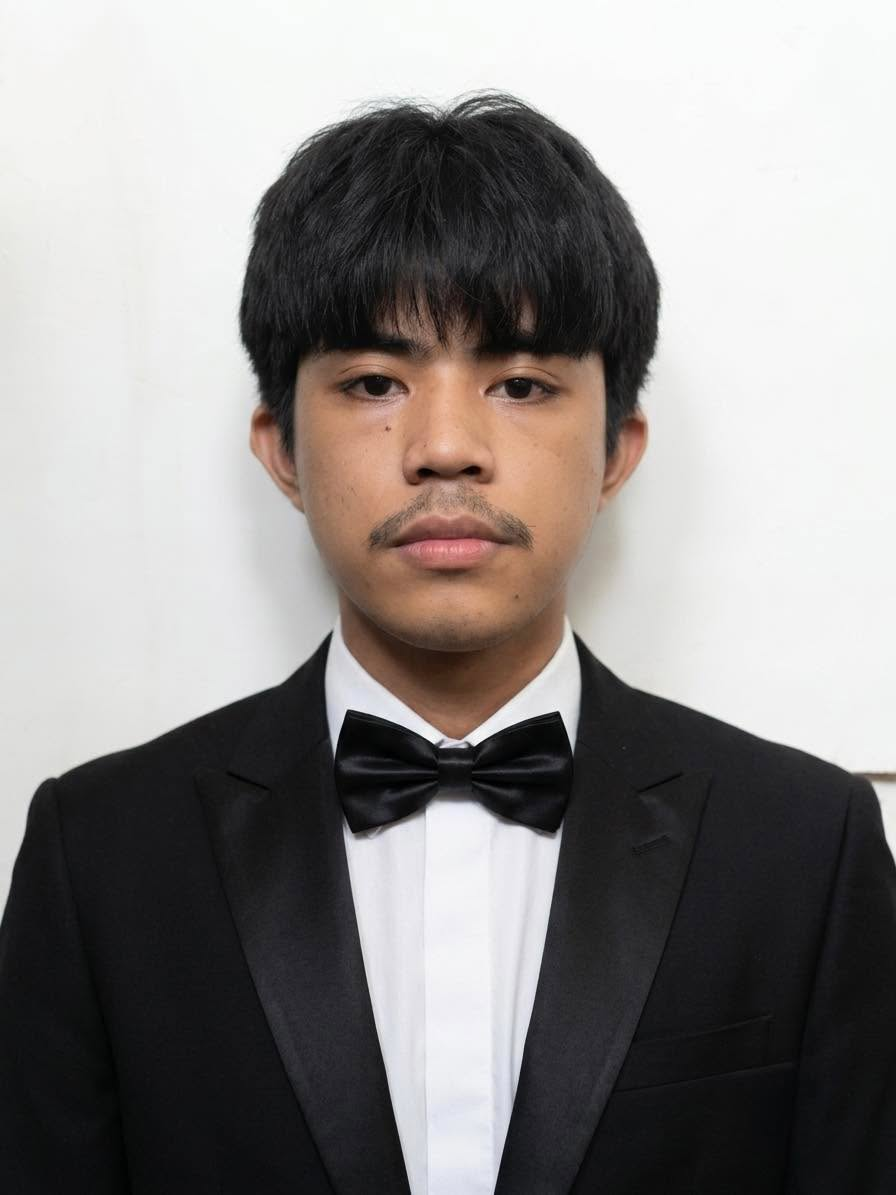
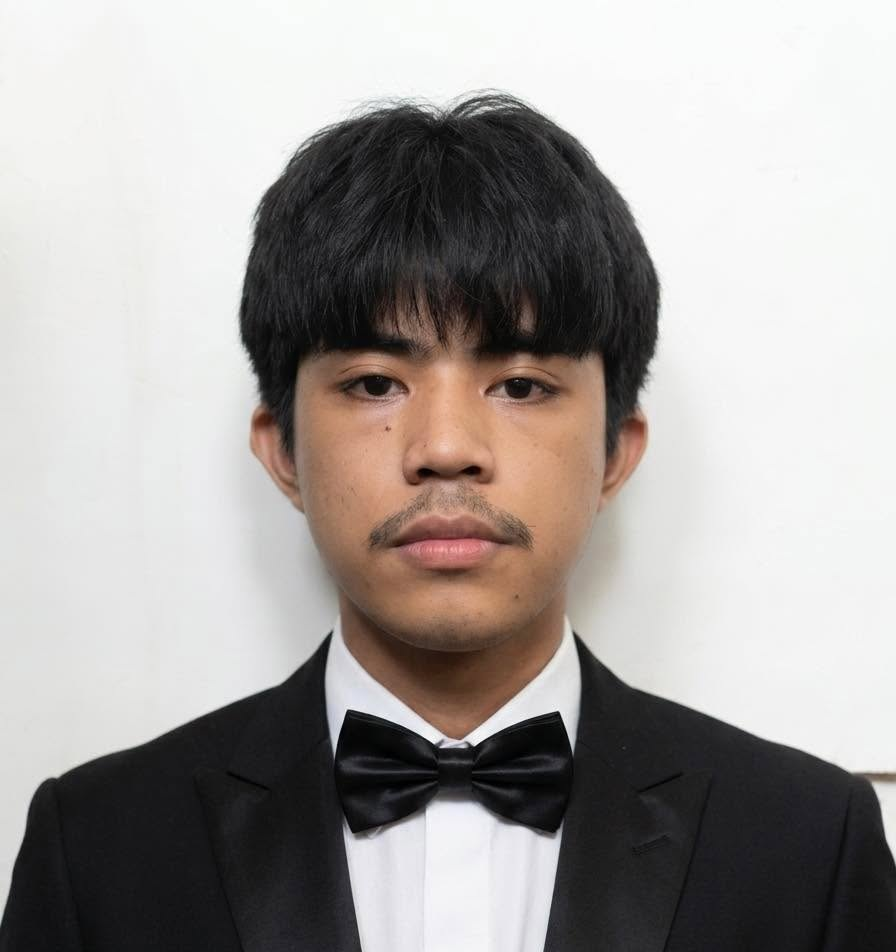
modified Home, Image, and styles

diff --git a/Home.html b/Home.html
@@ -9,5 +9,30 @@
       My first webisite will be historic because this is the first of something
       big.
     </p>
+    <div class="profilecontainer">
+      <img class="profile" src="Image/Profile.jpg" />
+    </div>
+    <p class="quote">
+      The secret of change is to focus all of your energy not on fighting the
+      old, but on building the new.
+    </p>
+    <br />
+    <br />
+    <h1>These are my favorite shows</h1>
+    <div class="shows">
+      <img
+        src="https://m.media-amazon.com/images/M/MV5BZGQyZjk2MzMtMTcyNC00NGU3LTlmNjItNDExMWM4ZDFhYmQ2XkEyXkFqcGc@._V1_.jpg"
+      />
+      <img
+        src="https://upload.wikimedia.org/wikipedia/en/6/66/JoJo_Part_5_Golden_Wind.jpg?utm_source=en.wikipedia.org&utm_campaign=index&utm_content=original"
+      />
+      <img
+        src="https://encrypted-tbn0.gstatic.com/images?q=tbn:ANd9GcTOX6vFoyZPJXT4lzWOLSUgF2gSM_FD5GP5Sq4negzyc7hssMAuzCSQ61c&s=10"
+      />
+    </div>
+    <p style="font-size: 30px">
+      I love watching these shows because they make me feel like I was part of
+      the world they inhabit.
+    </p>
   </body>
 </html>

diff --git a/styles.css b/styles.css
@@ -1,4 +1,38 @@
 body {
   background-color: rgb(126, 123, 123);
-  color: aqua;
+  color: rgb(0, 0, 0);
+}
+
+img {
+  width: 200px;
+  height: 200px;
+  border-radius: 50%;
+  border: 2px solid rgb(122, 39, 97);
+  object-fit: cover;
+}
+.profilecontainer {
+  display: flex;
+  flex-direction: column;
+  align-items: flex-start;
+  justify-content: flex-start;
+  margin-left: 10px;
+  margin-top: 20px;
+}
+
+img:hover {
+  transform: scale(1.1);
+  transition: transform 0.3s ease-in-out;
+}
+
+.quote {
+  font-size: 20px;
+  font-style: italic;
+  margin-top: 10px;
+  margin-bottom: 10px;
+}
+
+.shows {
+  display: flex;
+  gap: 100px;
+  margin: 50px;
 }
